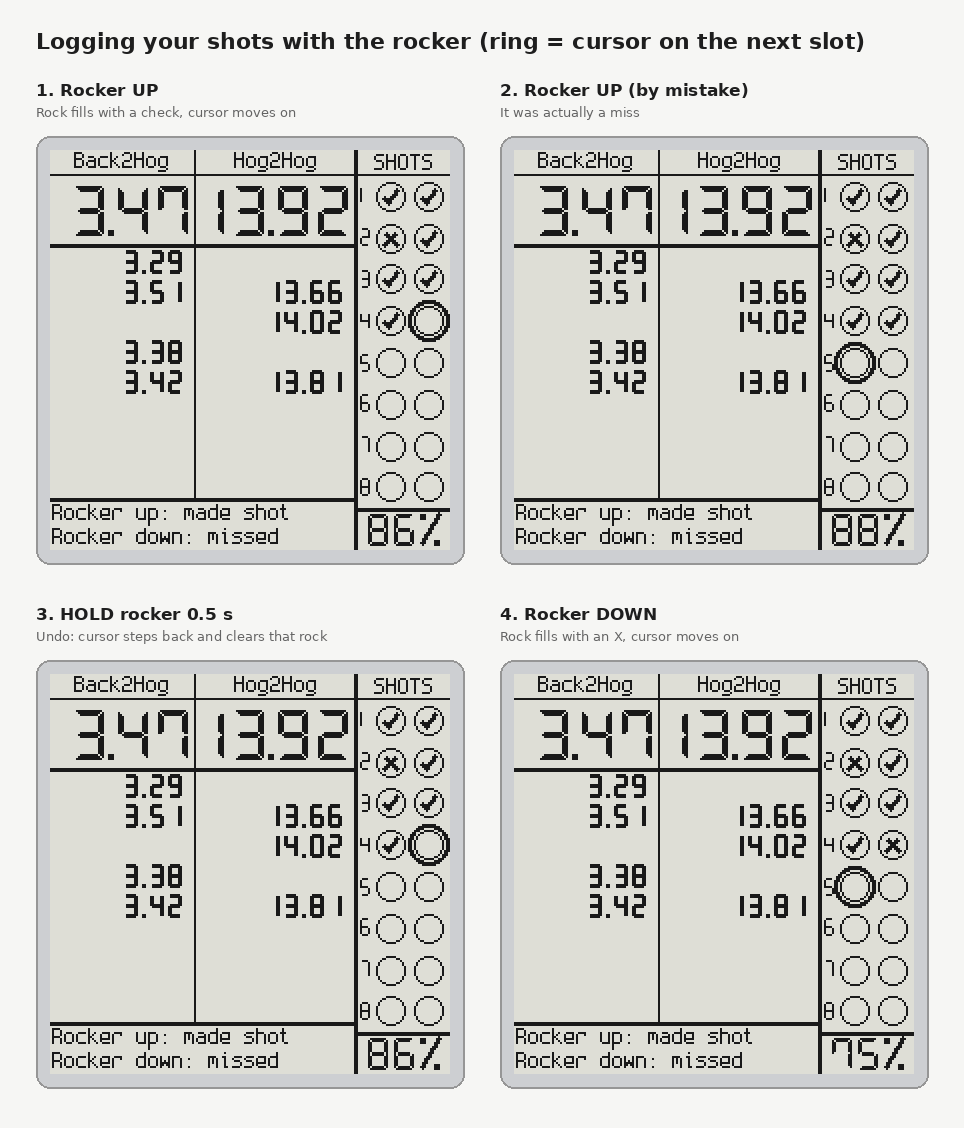
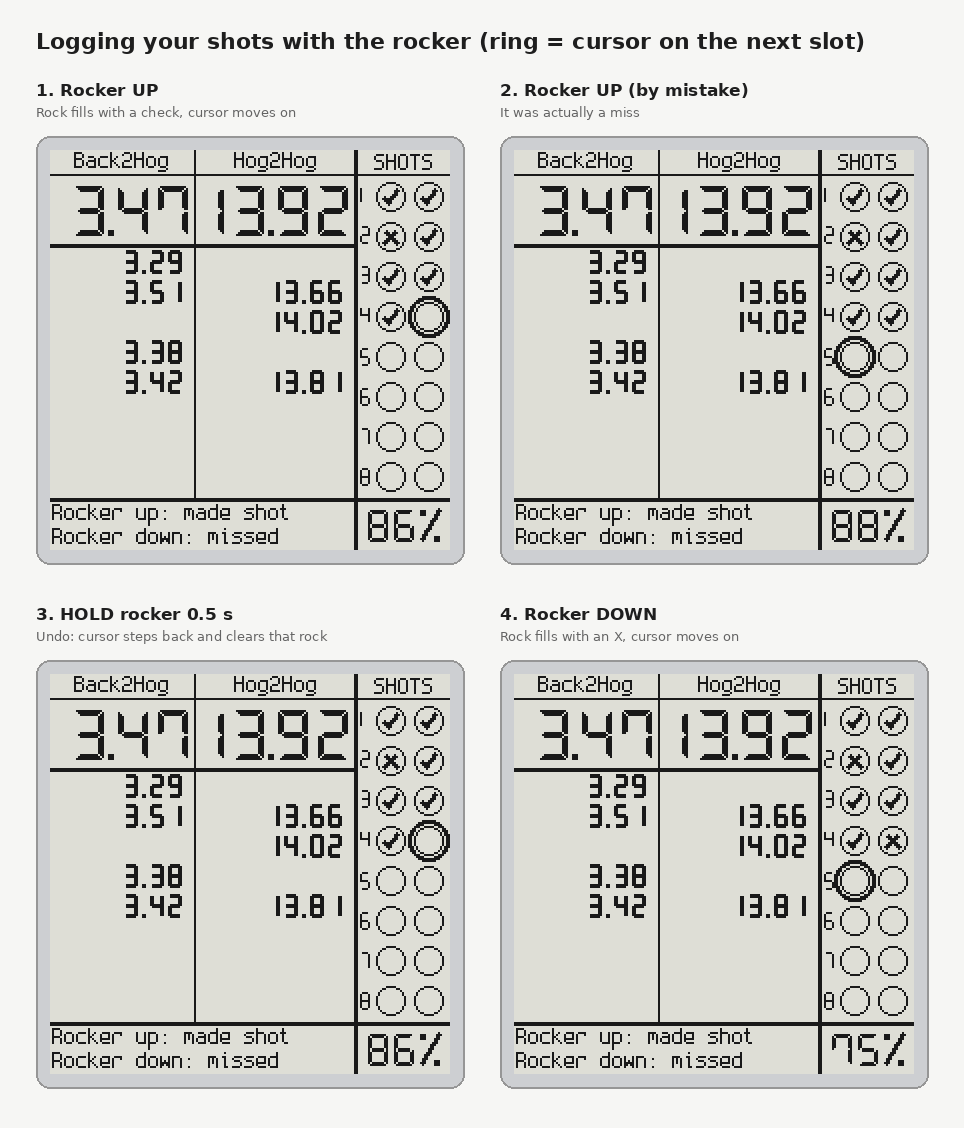
Main screen: one straight line above the tip strip and the percentage
The percentage row now starts at the same height as the tip strip, so
a single 2 px line runs across the full width instead of stepping at
the column divider. The 8 ends share the space above it (20.1 px rows).

Claude-Session: https://claude.ai/code/session_01YA9zoncxe9XeMCwR12hQbC

diff --git a/tools/mockups/screen.py b/tools/mockups/screen.py
@@ -14,7 +14,7 @@ LABEL_H = 12
 BIG_H = 34
 ROW_H = 15
 TIP_H = 26
-END_ROWS = 9  # 8 ends + percentage row
+ROCKS_BOTTOM = H - TIP_H  # the 8 ends sit above this; the percentage row and tip strip below it
 SLOTS = 16
 
 _bdf_cache = {}
@@ -145,7 +145,7 @@ def fonts():
 # --------------------------------------------------------------------------- main screen
 def rock_xy(k):
     top = LABEL_H + 1
-    pitch = (H - top) / END_ROWS
+    pitch = (ROCKS_BOTTOM - top) / 8
     end, j = divmod(k, 2)
     return SH_X0 + (18 if j == 0 else 37), top + pitch * end + pitch / 2
 
@@ -186,7 +186,7 @@ def main_screen(stones, shots, tip=None, warn=False):
     # rocks, one row per end; ring = cursor on the next slot
     cursor = len(shots) if len(shots) < SLOTS else -1
     top = LABEL_H + 1
-    pitch = (H - top) / END_ROWS
+    pitch = (ROCKS_BOTTOM - top) / 8
     r = 7
     for end in range(8):
         cy = top + pitch * end + pitch / 2
@@ -205,8 +205,9 @@ def main_screen(stones, shots, tip=None, warn=False):
                 d.ellipse([cx - 10, cy - 10, cx + 10, cy + 10], outline=0, width=2)
 
     # percentage: DSEG7 digits packed by their ink, % sign drawn to match
-    y9 = top + pitch * 8
-    d.line([(SH_X0 + 2, y9), (W - 1, y9)], fill=0, width=2)
+    # one line straight across: over the tip strip and the percentage row alike
+    y9 = ROCKS_BOTTOM
+    d.line([(0, y9), (W - 1, y9)], fill=0, width=2)
     if shots:
         n = str(round(100 * sum(shots) / len(shots)))
         f = fs["pct"]
@@ -231,8 +232,6 @@ def main_screen(stones, shots, tip=None, warn=False):
         ty = H - TIP_H
         if warn:
             d.rectangle([0, ty, SH_X0 - 1, H - 1], fill=0)
-        else:
-            d.line([(0, ty), (SH_X0 - 1, ty)], fill=0, width=2)
         for i, line in enumerate(tip):
             d.text((1, ty + 2 + i * 12), line, font=fs["label"], fill=1 if warn else 0)
     return img

diff --git a/firmware/lib/stoprock_ui/src/screens.cpp b/firmware/lib/stoprock_ui/src/screens.cpp
@@ -10,7 +10,8 @@ namespace {
 
 constexpr int W = 200, H = 200;
 constexpr int BH_X0 = 0, HH_X0 = 72, SH_X0 = 152;
-constexpr int LABEL_H = 12, BIG_H = 34, ROW_H = 15, TIP_H = 26, END_ROWS = 9;
+constexpr int LABEL_H = 12, BIG_H = 34, ROW_H = 15, TIP_H = 26;
+constexpr int ROCKS_BOTTOM = H - TIP_H;  // the 8 ends sit above this; the percentage row and tip strip below it
 
 // Python's round(): halves go to the even neighbour.
 int pyRound(double v) {
@@ -152,7 +153,7 @@ void drawMain(Canvas& c, const MainView& v) {
     const ShotLog empty;
     const ShotLog& shots = v.shots ? *v.shots : empty;
     const int cursor = shots.cursor();
-    const double top = LABEL_H + 1, pitch = (H - top) / END_ROWS;
+    const double top = LABEL_H + 1, pitch = (ROCKS_BOTTOM - top) / 8;
     for (int end = 0; end < 8; ++end) {
         const double cy = top + pitch * end + pitch / 2;
         char n[3];
@@ -169,8 +170,9 @@ void drawMain(Canvas& c, const MainView& v) {
     }
 
     // percentage: DSEG7 digits packed by their ink, % sign drawn to match
-    const double y9 = top + pitch * 8;
-    hline(c, SH_X0 + 2, W - 1, static_cast<int>(y9), 2);
+    // one line straight across: over the tip strip and the percentage row alike
+    const double y9 = ROCKS_BOTTOM;
+    hline(c, 0, W - 1, ROCKS_BOTTOM, 2);
     if (shots.count() > 0) {
         char n[4];
         snprintf(n, sizeof n, "%d", shots.percent());
@@ -209,7 +211,6 @@ void drawMain(Canvas& c, const MainView& v) {
     if (tip) {
         const int ty = H - TIP_H;
         if (v.warning) c.fillRect(0, ty, SH_X0 - 1, H - 1);
-        else hline(c, 0, SH_X0 - 1, ty, 2);
         c.text(label, 1, ty + 2, v.tip1, !v.warning);
         if (v.tip2) c.text(label, 1, ty + 14, v.tip2, !v.warning);
     }
